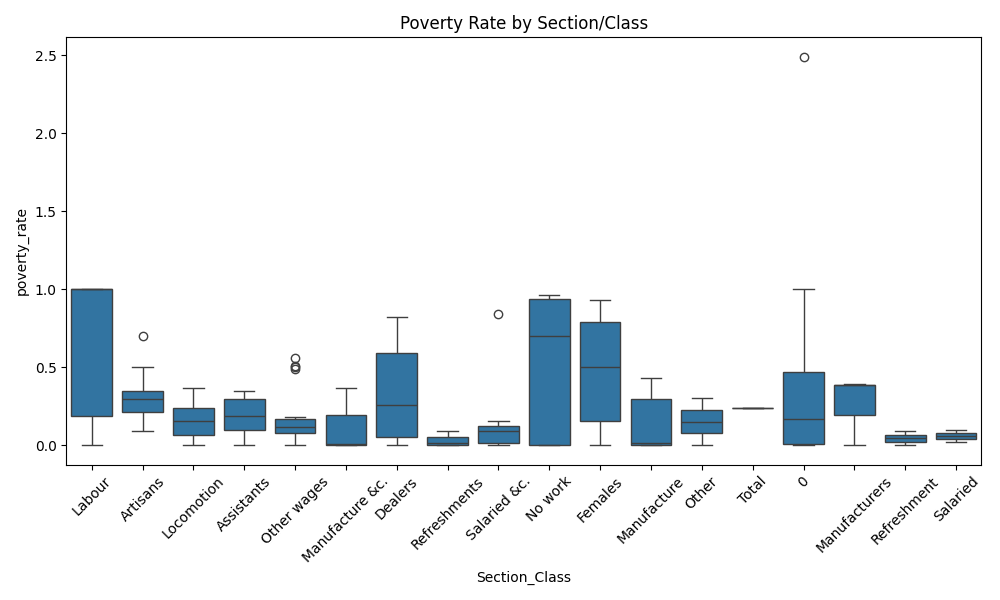
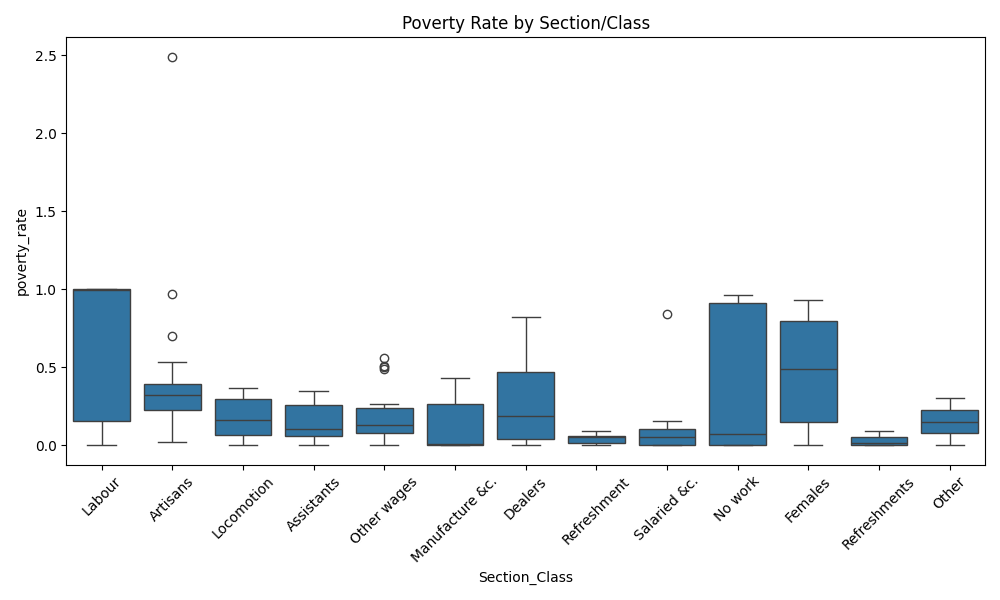
fix eda file paths and rebuild boxplot

diff --git a/scripts/eda_and_tests.py b/scripts/eda_and_tests.py
@@ -5,9 +5,9 @@ from scipy.stats import shapiro
 import os
 
 def run_eda_and_tests():
-    input_file = 'data/processed/final_analysis_data.csv'
-    plots_dir = 'results/plots'
-    stats_file = 'results/statistics_summary.txt'
+    input_file = '../data/processed/final_analysis_data.csv'
+    plots_dir = '../results/plots'
+    stats_file = '../results/statistics_summary.txt'
 
     if not os.path.exists(input_file):
         print(f"Error: {input_file} not found.")